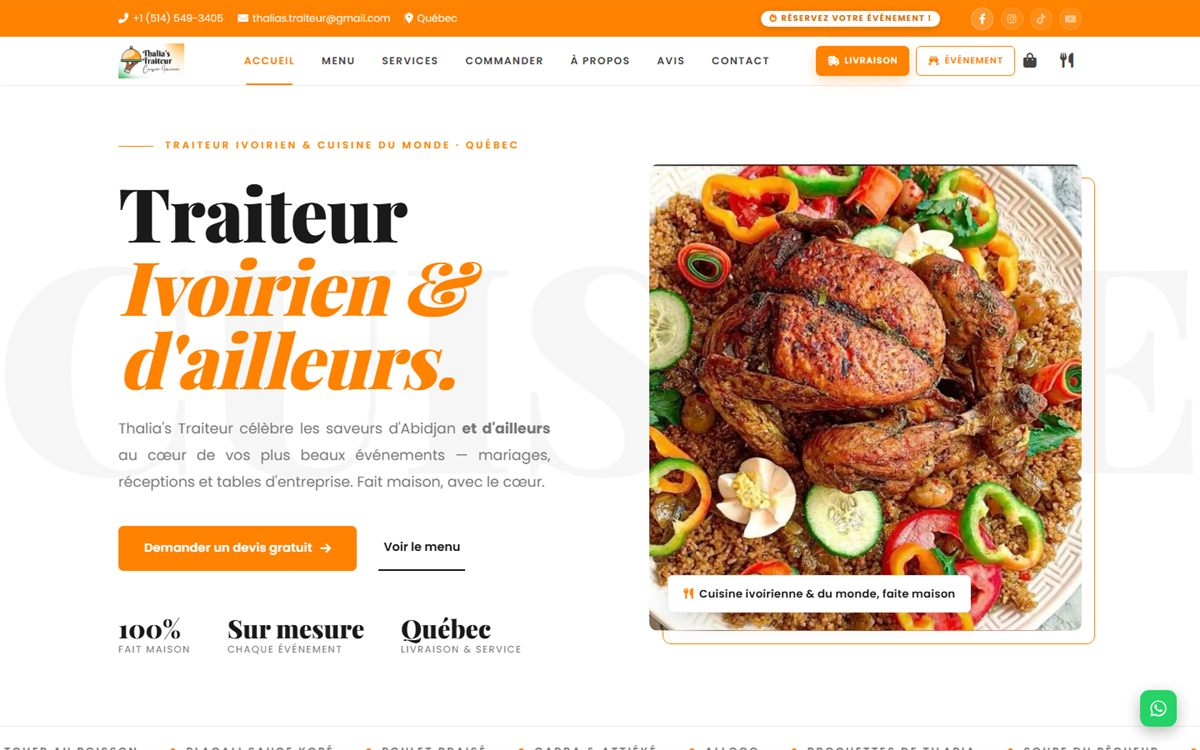
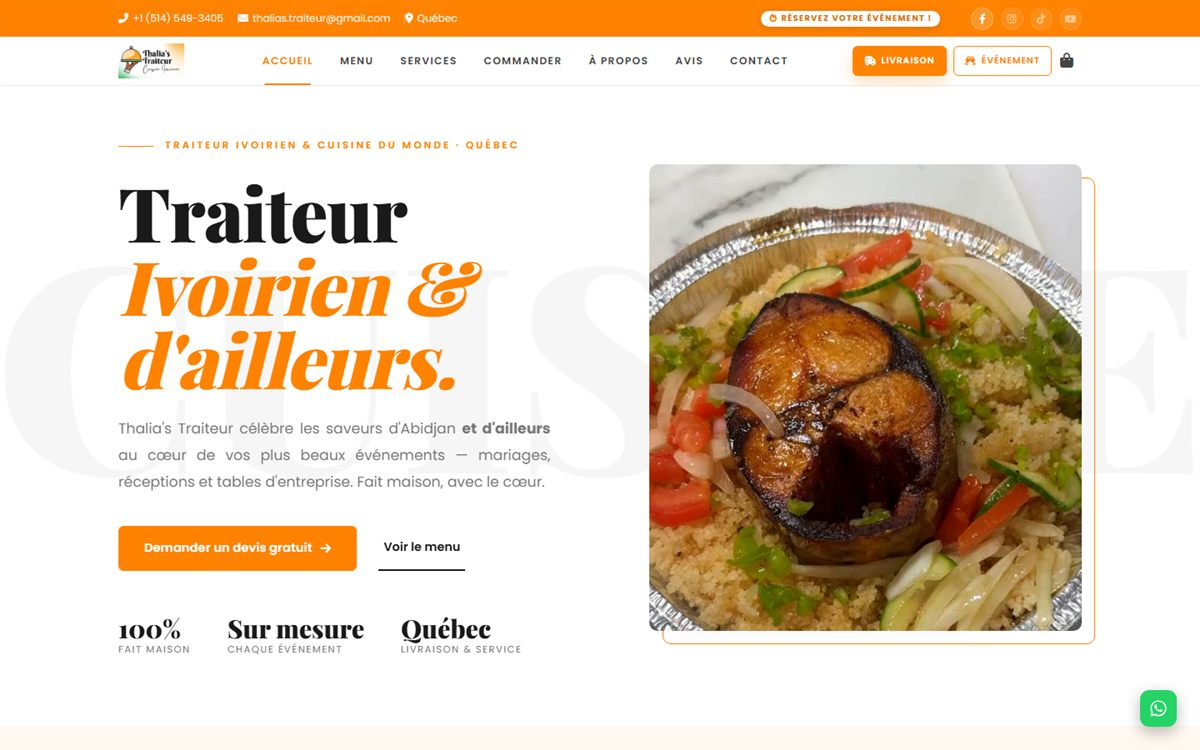
Réalisations : Thalia's Traiteur pointe vers thaliastraiteur.com
Nouvelle capture du site (sans la photo du poulet retirée par la cliente).

diff --git a/index.html b/index.html
@@ -239,14 +239,14 @@
         -->
         <div class="portfolio">
           <article class="project">
-            <a class="project__img" href="https://dovrom.github.io/ThaliasTraiteur/" target="_blank" rel="noopener" aria-label="Voir le site Thalia's Traiteur">
+            <a class="project__img" href="https://thaliastraiteur.com/" target="_blank" rel="noopener" aria-label="Voir le site Thalia's Traiteur">
               <img src="realisations/thalias-traiteur.jpg" alt="Page d'accueil du site Thalia's Traiteur" width="1200" height="750" loading="lazy">
             </a>
             <div class="project__body">
               <p class="project__tag">Traiteur · Site vitrine</p>
               <h3>Thalia's Traiteur</h3>
               <p>Traiteur ivoirien et africain au Québec : menu, services pour mariages et événements, commande en ligne, livraison et avis clients.</p>
-              <a class="project__link" href="https://dovrom.github.io/ThaliasTraiteur/" target="_blank" rel="noopener">Voir le site</a>
+              <a class="project__link" href="https://thaliastraiteur.com/" target="_blank" rel="noopener">Voir le site</a>
             </div>
           </article>
           <article class="project">
